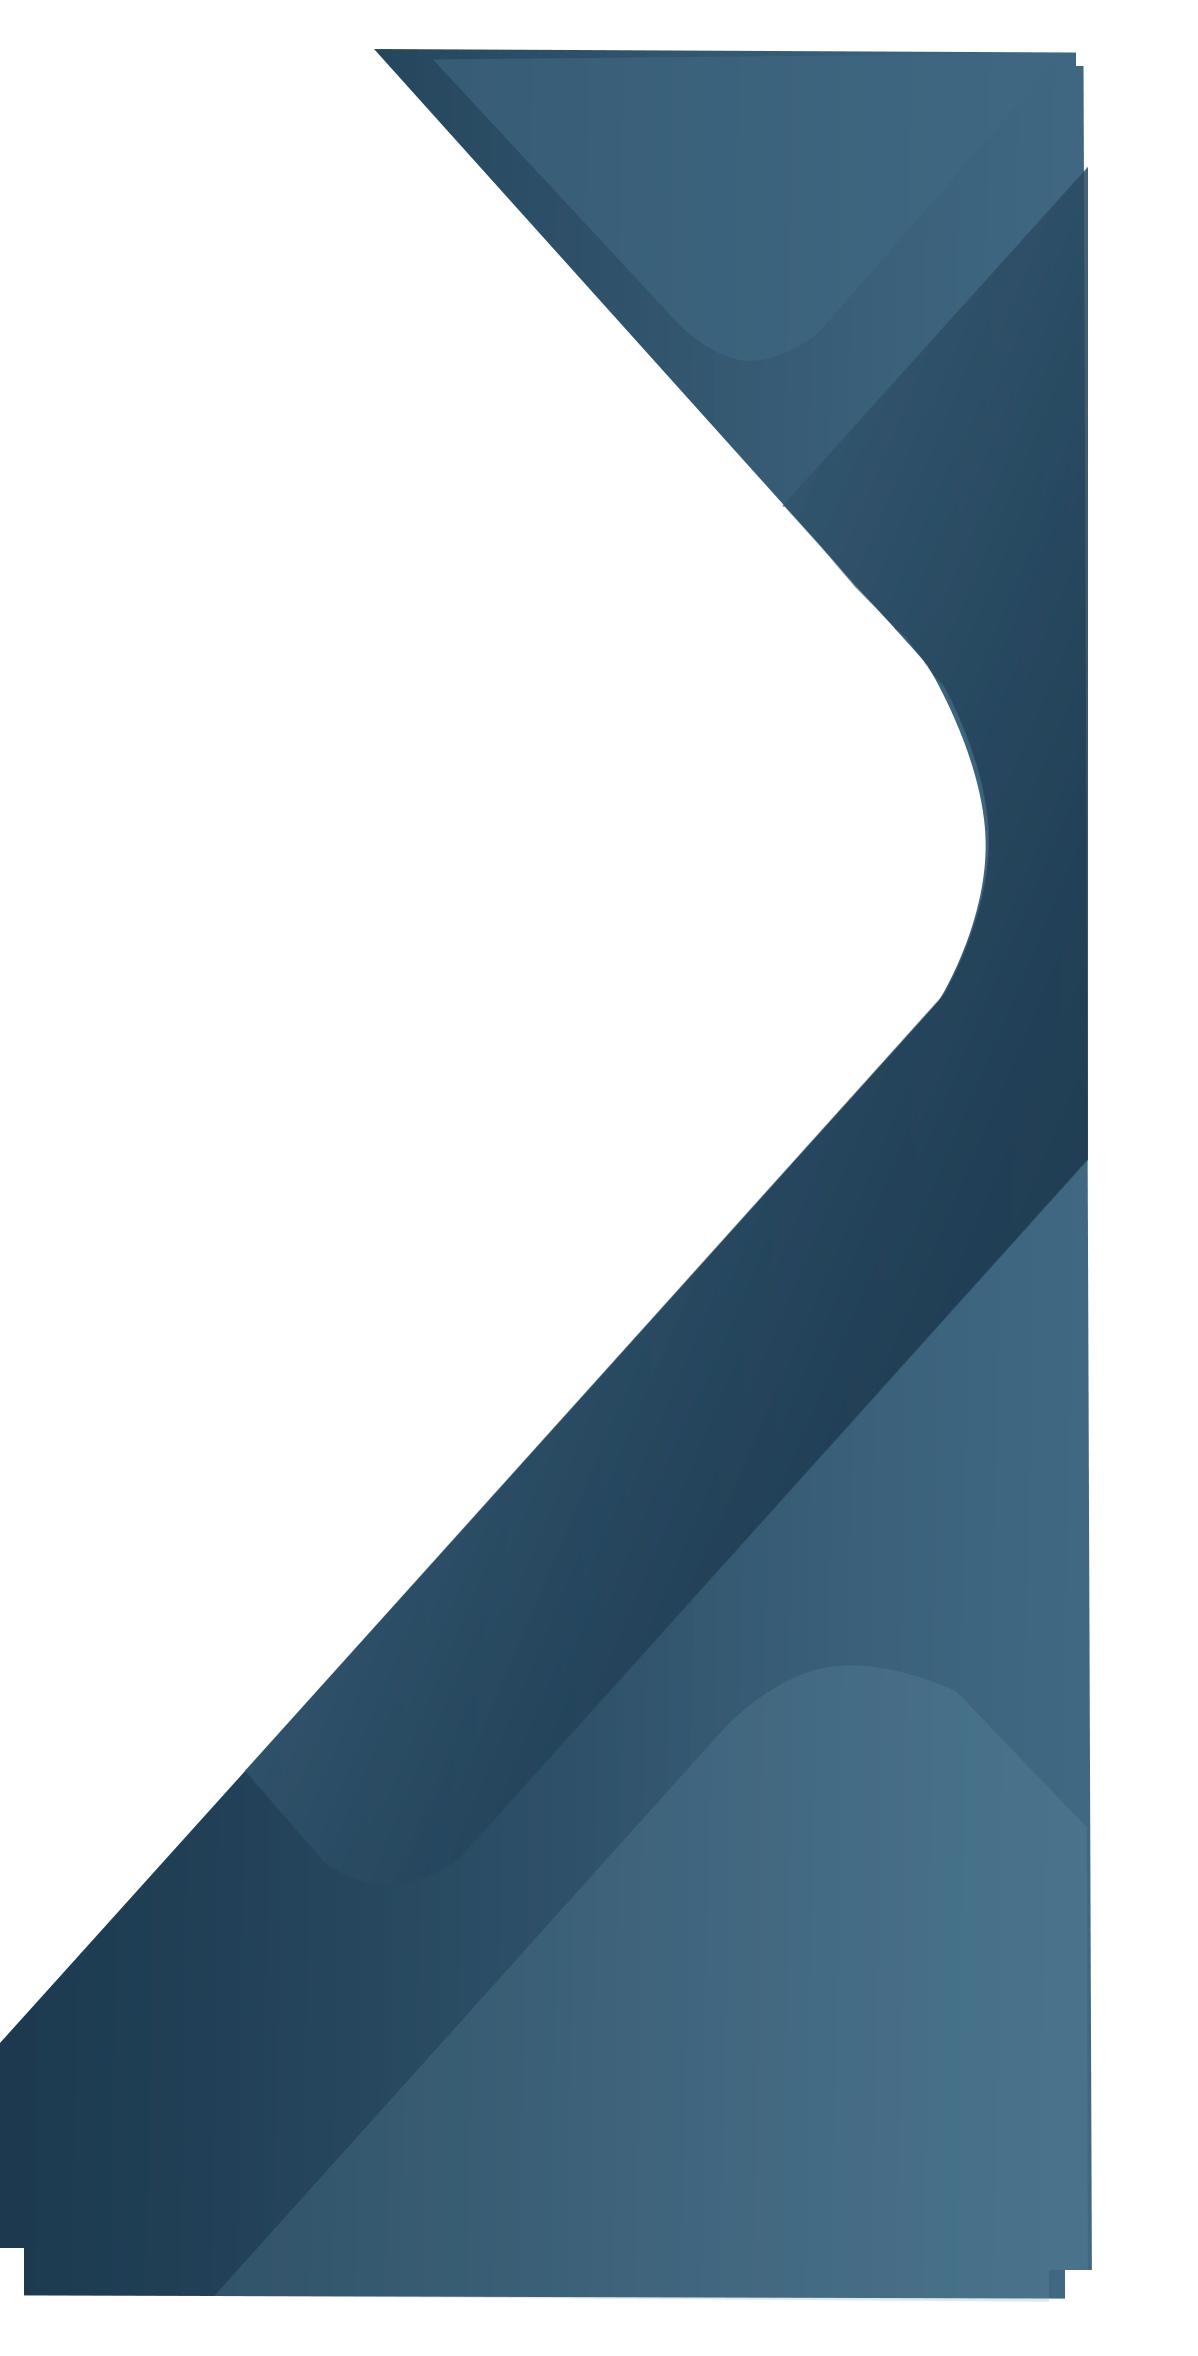
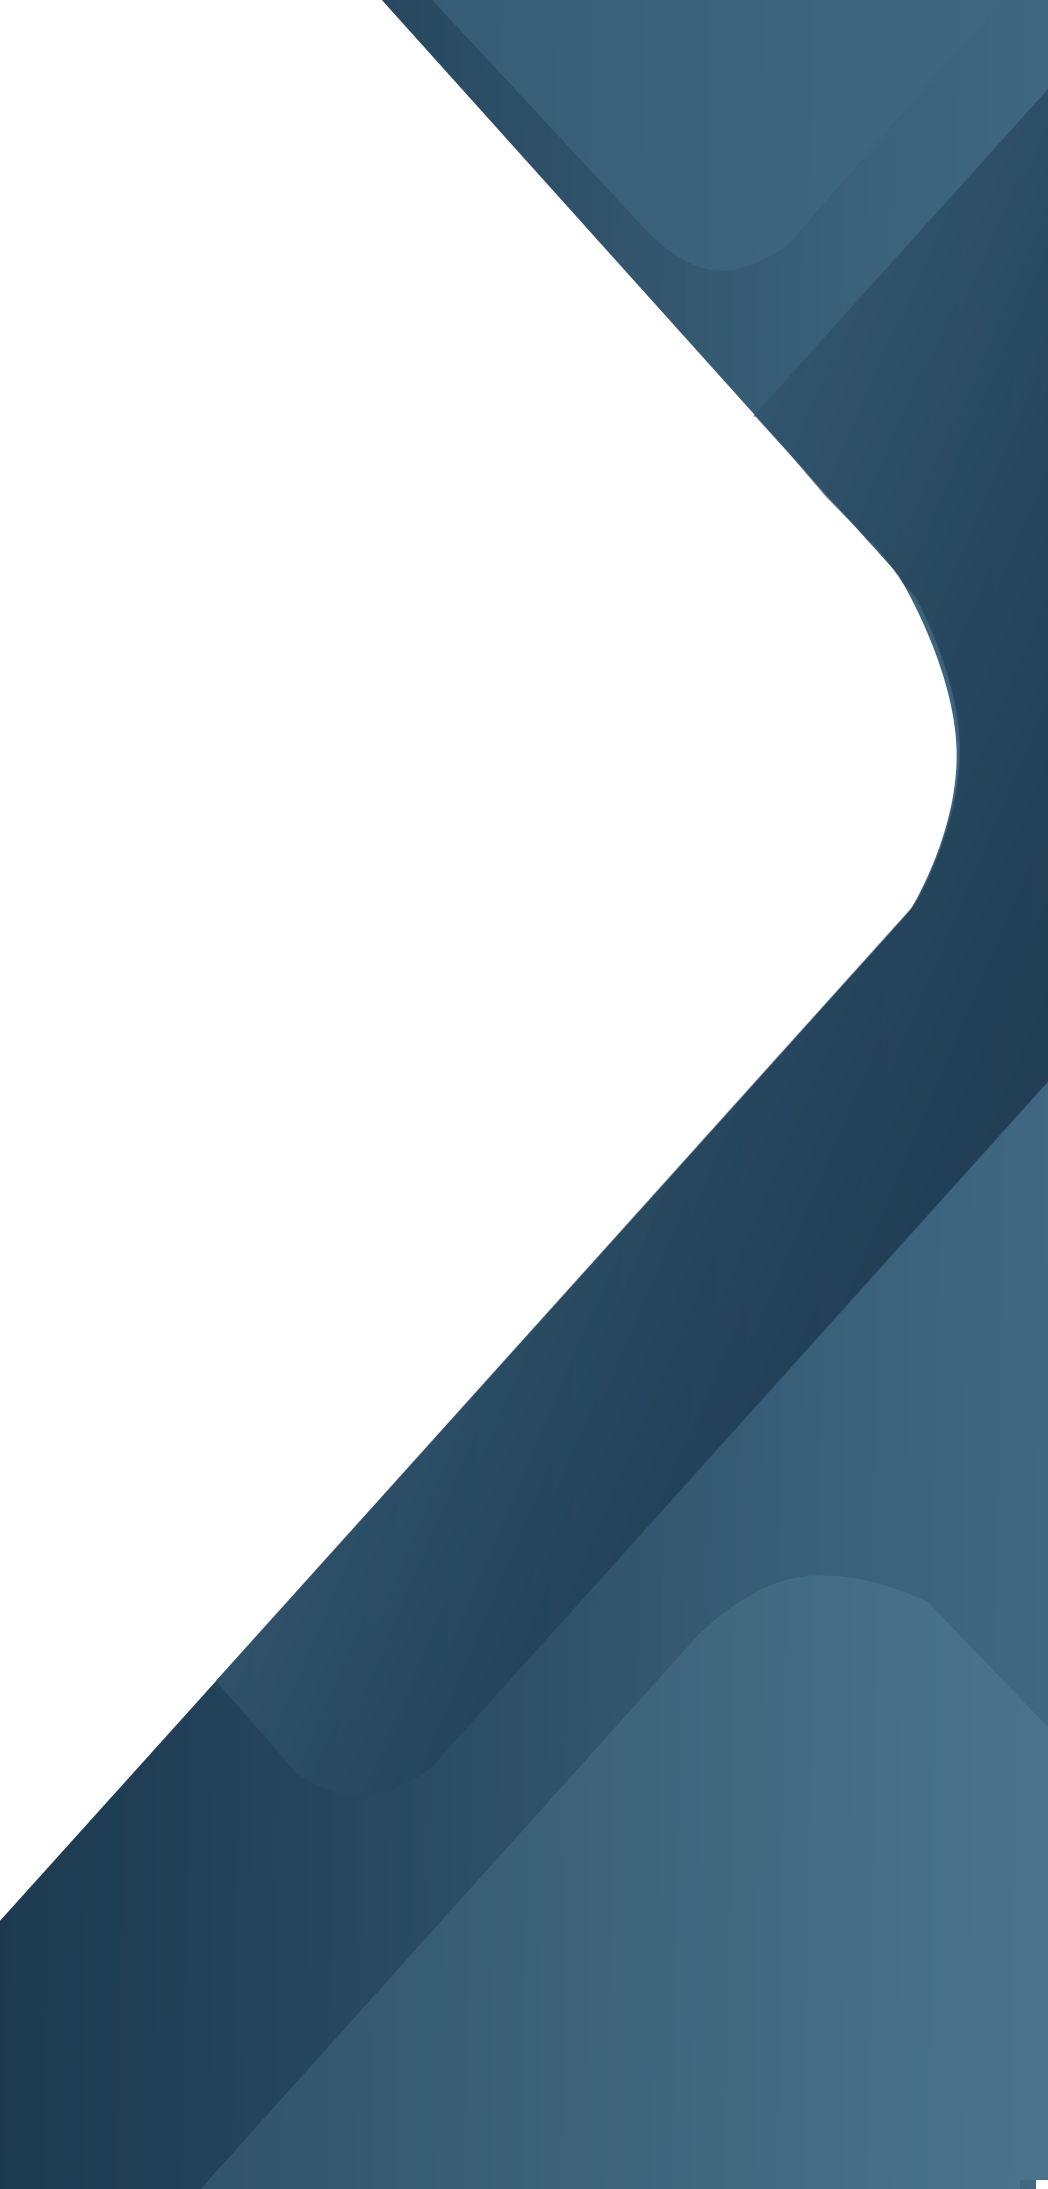
onboarding, login done

Changed region(s): [[0.0, 0.0, 1.0, 1.0], [0.0611, 0.8077, 0.1221, 0.8387], [0.0, 0.8387, 0.0611, 0.8698]]

diff --git a/lib/app/modules/auth_pages/view/signup_view.dart b/lib/app/modules/auth_pages/view/signup_view.dart
@@ -1,11 +1,14 @@
-import 'package:fabb_mobil/app/modules/auth_pages/controller/auth_controller.dart';
+import 'package:fabb_mobil/app/modules/auth_pages/controller/login_controller.dart';
 import 'package:fabb_mobil/app/theme/app_colors.dart';
+import 'package:fabb_mobil/app/theme/app_images.dart';
 import 'package:flutter/material.dart';
 
 import 'package:get/get.dart';
 import 'package:sizer/sizer.dart';
 
-class SignupView extends GetView<AuthController> {
+import '../controller/signup_controller.dart';
+
+class SignupView extends GetView<SignupController> {
   const SignupView({super.key});
 
   @override
@@ -16,27 +19,34 @@ class SignupView extends GetView<AuthController> {
         appBar: AppBar(
           backgroundColor: AppColors.mainColor,
         ),
-        body: Container(
-            alignment: Alignment.center,
-            height: Get.height,
+        body: Stack(children: [
+          Container(
             width: Get.width,
-            padding: const EdgeInsets.symmetric(horizontal: 60),
-            color: Colors.white,
-            child: SingleChildScrollView(
-              child: Form(
-                  child: Column(
-                children: [
-                  signupPageTitle(),
-                  signupTextFormField('First Name', Icons.person),
-                  signupTextFormField('Last Name', Icons.person),
-                  signupTextFormField('Phone Number', Icons.phone),
-                  signupTextFormField('E-mail', Icons.mail),
-                  signupTextFormField('Password', Icons.lock),
-                  signupButton(),
-                  alreadyHaveAnAccountText()
-                ],
+            height: 100.h,
+            child: Image(image: AppImages.loginBackground, fit: BoxFit.fill),
+          ),
+          Container(
+              alignment: Alignment.center,
+              height: Get.height,
+              width: Get.width,
+              padding: const EdgeInsets.symmetric(horizontal: 60),
+              //color: Colors.white,
+              child: SingleChildScrollView(
+                child: Form(
+                    child: Column(
+                  children: [
+                    signupPageTitle(),
+                    signupTextFormField('First Name', Icons.person),
+                    signupTextFormField('Last Name', Icons.person),
+                    signupTextFormField('Phone Number', Icons.phone),
+                    signupTextFormField('E-mail', Icons.mail),
+                    signupTextFormField('Password', Icons.lock),
+                    signupButton(),
+                    alreadyHaveAnAccountText()
+                  ],
+                )),
               )),
-            )),
+        ]),
       ),
     );
   }
@@ -94,6 +104,7 @@ class SignupView extends GetView<AuthController> {
           color: Colors.transparent,
           border: Border.all(color: const Color.fromARGB(255, 106, 106, 106))),
       child: TextFormField(
+        controller: controller.infoController,
         onChanged: (value) {},
         decoration: InputDecoration(
             icon: Icon(icon),

diff --git a/lib/app/routes/app_pages.dart b/lib/app/routes/app_pages.dart
@@ -2,33 +2,22 @@ import 'package:get/get.dart';
 import '../modules/auth_pages/bindings/auth_binding.dart';
 import '../modules/auth_pages/view/login_view.dart';
 import '../modules/auth_pages/view/signup_view.dart';
-import '../modules/info pages/view/first_informing_page_view.dart';
-import '../modules/info pages/view/second_informing_page_view.dart';
-import '../modules/info pages/view/third_informing_page_view.dart';
-
+import '../modules/info pages/view/onboarding_view.dart';
 part 'app_routes.dart';
 
 class AppPages {
   AppPages._();
 
   // ignore: constant_identifier_names
-  static const initial = Routes.firstinfo;
+  static const initial = Routes.onboarding;
 
   static const login = Routes.login;
   static const signup = Routes.signup;
 
   static final routes = [
     GetPage(
-      name: _Paths.firstinfo,
+      name: _Paths.onboarding,
       page: () => OnboardingPageView(),
-    ),
-    GetPage(
-      name: _Paths.secondinfo,
-      page: () => const SecondInformingPageView(),
-    ),
-    GetPage(
-      name: _Paths.thirdinfo,
-      page: () => const ThirdInformingPageView(),
     ),
     GetPage(
       name: _Paths.login,

diff --git a/lib/app/modules/auth_pages/view/login_view.dart b/lib/app/modules/auth_pages/view/login_view.dart
@@ -1,10 +1,12 @@
-import 'package:fabb_mobil/app/modules/auth_pages/controller/auth_controller.dart';
+import 'package:fabb_mobil/app/modules/auth_pages/controller/login_controller.dart';
 import 'package:fabb_mobil/app/theme/app_colors.dart';
 import 'package:flutter/material.dart';
 import 'package:get/get.dart';
 import 'package:sizer/sizer.dart';
 
-class LoginView extends GetView<AuthController> {
+import '../../../theme/app_images.dart';
+
+class LoginView extends GetView<LoginController> {
   const LoginView({super.key});
 
   @override
@@ -16,11 +18,11 @@ class LoginView extends GetView<AuthController> {
           backgroundColor: AppColors.mainColor,
         ),
         body: Stack(children: [
-          // Container(
-          //   height: Get.height,
-          //   width: Get.width,
-          //   child: Image.asset('assets/images/login_background.png'),
-          // ),
+          Container(
+            width: Get.width,
+            height: 100.h,
+            child: Image(image: AppImages.loginBackground, fit: BoxFit.fill),
+          ),
           Container(
               height: Get.height,
               width: Get.width,

diff --git a/lib/app/modules/auth_pages/controller/login_controller.dart b/lib/app/modules/auth_pages/controller/login_controller.dart
@@ -1,7 +1,7 @@
 import 'package:flutter/widgets.dart';
 import 'package:get/get.dart';
 
-class AuthController extends GetxController {
+class LoginController extends GetxController {
   String password = '';
   String email = '';
   RxString displayText = 'Enter a password'.obs;
@@ -11,7 +11,9 @@ class AuthController extends GetxController {
   RxBool isPasswordHidden = true.obs;
   RxString falseLogin = ''.obs;
 
-  final GlobalKey<FormState> loginFormKey = GlobalKey<FormState>();
+  //global key, create account butonuna basıldığında Get.deleteall(controller)
+
+  GlobalKey<FormState> loginFormKey = GlobalKey<FormState>();
   late TextEditingController emailController, passwordController;
 
   @override

diff --git a/lib/app/routes/app_routes.dart b/lib/app/routes/app_routes.dart
@@ -3,18 +3,14 @@ part of 'app_pages.dart';
 abstract class Routes {
   Routes._();
 
-  static const firstinfo = _Paths.firstinfo;
-  static const secondinfo = _Paths.secondinfo;
-  static const thirdtinfo = _Paths.thirdinfo;
+  static const onboarding = _Paths.onboarding;
 
   static const login = _Paths.login;
   static const signup = _Paths.signup;
 }
 
 abstract class _Paths {
-  static const firstinfo = '/firstinfo';
-  static const secondinfo = '/secondinfo';
-  static const thirdinfo = '/thirdinfo';
+  static const onboarding = '/onboarding';
 
   static const login = '/login';
   static const signup = '/signup';

diff --git a/lib/app/modules/auth_pages/bindings/auth_binding.dart b/lib/app/modules/auth_pages/bindings/auth_binding.dart
@@ -1,12 +1,16 @@
+import 'package:fabb_mobil/app/modules/auth_pages/controller/signup_controller.dart';
 import 'package:get/get.dart';
 
-import '../controller/auth_controller.dart';
+import '../controller/login_controller.dart';
 
 class AuthBindings extends Bindings {
   @override
   void dependencies() {
-    Get.lazyPut<AuthController>(
-      () => AuthController(),
+    Get.lazyPut<LoginController>(
+      () => LoginController(),
+    );
+    Get.lazyPut<SignupController>(
+      () => SignupController(),
     );
   }
 }

diff --git a/lib/app/modules/auth_pages/controller/signup_controller.dart b/lib/app/modules/auth_pages/controller/signup_controller.dart
@@ -1,0 +1,12 @@
+import 'package:flutter/material.dart';
+import 'package:get/get.dart';
+
+class SignupController extends GetxController {
+  late TextEditingController infoController;
+
+  @override
+  void onInit() {
+    super.onInit();
+    infoController = TextEditingController();
+  }
+}
